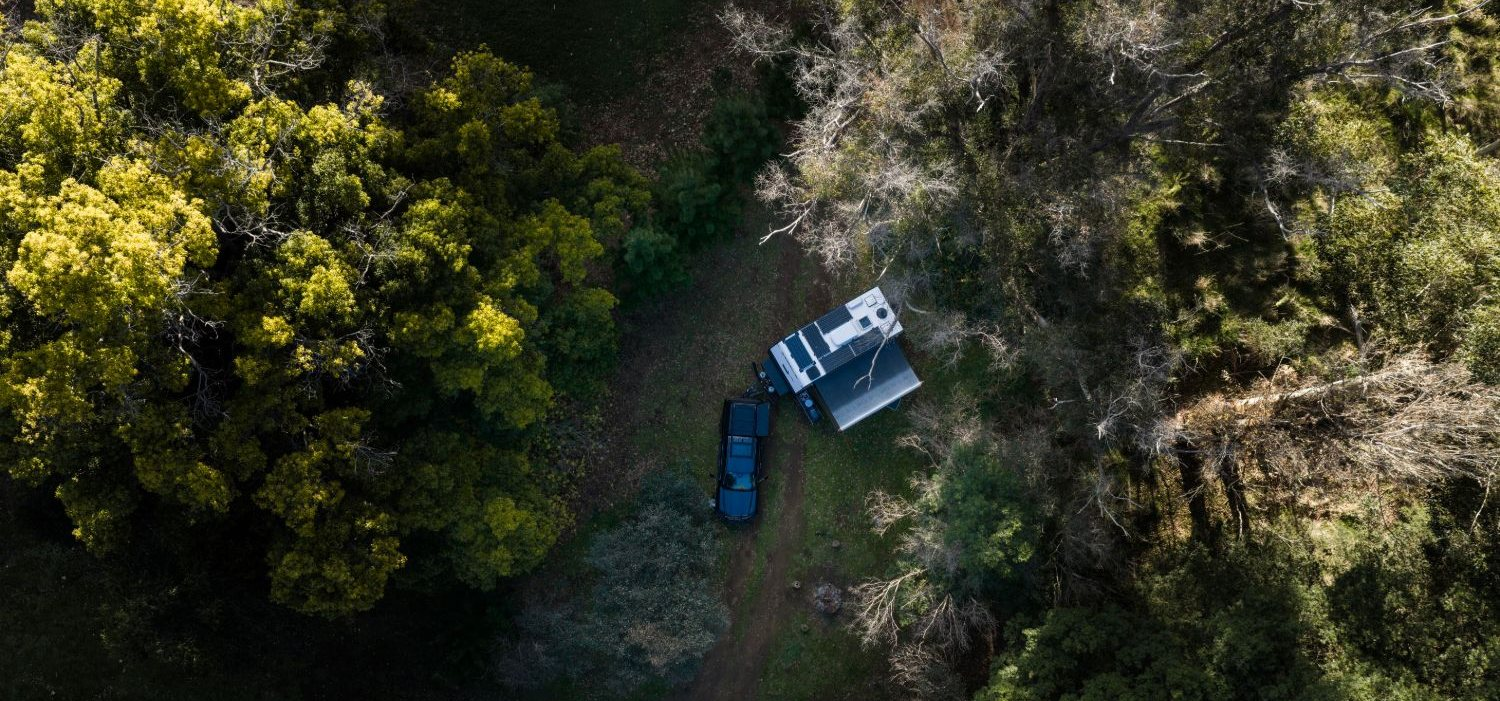
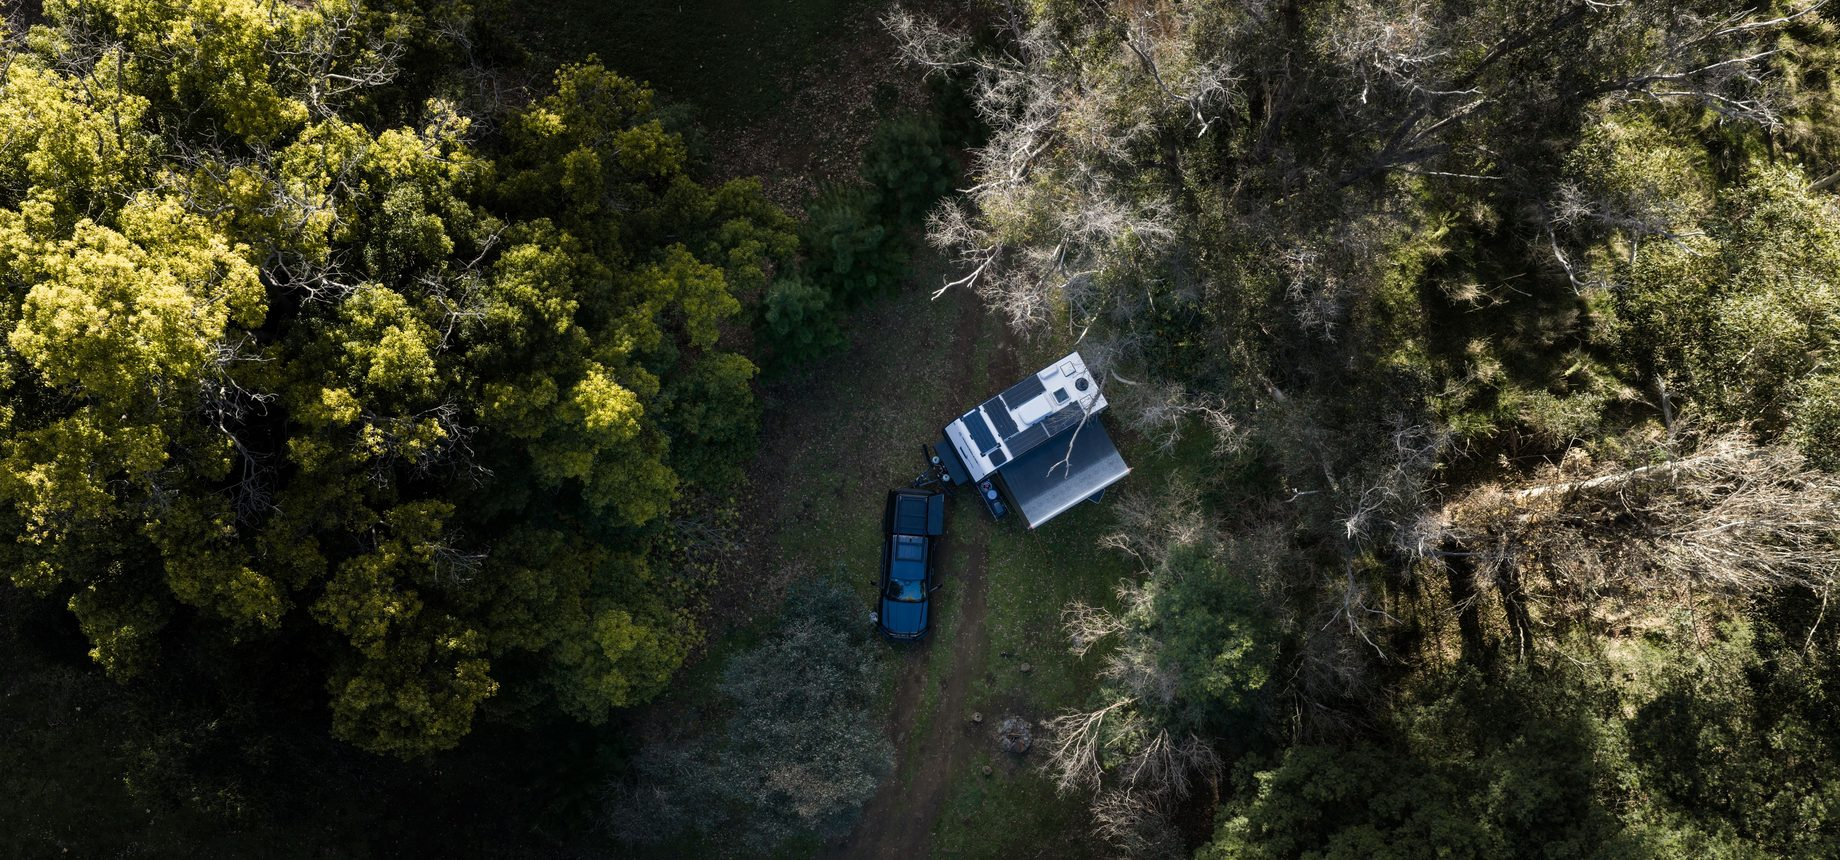
Home: drone band from the full-size original; tile follow-ups
- Drone band rebuilt from the original FV_1709_AMAROO_#2.jpg (5677x3784), same framing:
  desktop 1840x860, phone 1000x800 (no upscale; no plates readable from above).
- BUILT TO LAST: arrow off for now (where it links is still open).
- CUSTOM MADE links to the live /wonderland-experience/, like tiles 1 and 3.
- Desktop: CUSTOM MADE caption sits 46px in so its arrow clears the 48px side icon strip
  (checked 1280, 1440, 1920); grid width unchanged. home-dream.css?v=11.

diff --git a/home.html b/home.html
@@ -525,9 +525,9 @@
 
 <!-- ================================================ PHOTO BAND (Piyush, 25 Nov 2026): his top-down drone shot of the van
      and ute in a bush clearing, full bleed, no text. Desktop a wide band, phones a shorter crop centred on the van
-     (assets/css/home-dream.css). Built from his 1500x1000 copy; swap for the full-size original when it turns up. -->
+     (assets/css/home-dream.css). Crops from the full-size original, FV_1709_AMAROO_#2.jpg (5677x3784). -->
 <section class="band band--sep">
-  <picture><source media="(max-width: 900px)" srcset="assets/img/home/sep-drone-phone.jpg?v=1"><img src="assets/img/home/sep-drone-desk.jpg?v=1" width="1500" height="701" alt="A Wonderland RV caravan and ute parked in a bush clearing, seen from above" loading="lazy" decoding="async"></picture>
+  <picture><source media="(max-width: 900px)" srcset="assets/img/home/sep-drone-phone.jpg?v=2"><img src="assets/img/home/sep-drone-desk.jpg?v=2" width="1840" height="860" alt="A Wonderland RV caravan and ute parked in a bush clearing, seen from above" loading="lazy" decoding="async"></picture>
 </section>
 
 <!-- ================================================ YOUR DREAM VAN -->
@@ -540,11 +540,11 @@
     <div class="dz-grid" data-dz data-open="0">
       <a class="vp t1" href="https://wonderlandrv.com.au/layout/family-off-road-caravans/" style="--fx:35%;--fy:50%"><picture><source media="(max-width: 900px)" srcset="assets/img/home/dream-family-xtr-phone.jpg?v=1"><img src="assets/img/home/dream-family-xtr-desk.jpg?v=1" alt="" loading="lazy"></picture><div class="vc"><h3>FAMILY <span class="nw">OFF-ROAD</span> CARAVANS</h3><p>150+ bunk layouts to choose from</p><svg class="vc-arrow" viewBox="0 0 24 24" fill="none" stroke="currentColor" stroke-width="2.4" aria-hidden="true"><path d="M5 19L19 5M8 5h11v11"/></svg></div></a>
       <div class="dz-col">
-        <div class="vp t2" tabindex="0" style="--fx:62%;--fy:50%"><img src="assets/img/home/why2-chassis.jpg" alt="" loading="lazy"><div class="vc"><h3>BUILT TO LAST</h3><p>Australian made with superior strength and flex</p><svg class="vc-arrow" viewBox="0 0 24 24" fill="none" stroke="currentColor" stroke-width="2.4" aria-hidden="true"><path d="M5 19L19 5M8 5h11v11"/></svg></div></div>
+        <div class="vp t2" tabindex="0" style="--fx:62%;--fy:50%"><img src="assets/img/home/why2-chassis.jpg" alt="" loading="lazy"><div class="vc"><h3>BUILT TO LAST</h3><p>Australian made with superior strength and flex</p></div></div>
         <a class="vp t3" href="https://wonderlandrv.com.au/layout/couples-caravans/" style="--fx:50%;--fy:50%"><picture><source media="(max-width: 900px)" srcset="assets/img/home/dream-couples-phone.jpg?v=1"><img src="assets/img/home/dream-couples-desk.jpg?v=1" alt="" loading="lazy"></picture><div class="vc"><h3>MADE FOR COUPLES</h3><p>25+ couples off-road layouts to choose from</p><svg class="vc-arrow" viewBox="0 0 24 24" fill="none" stroke="currentColor" stroke-width="2.4" aria-hidden="true"><path d="M5 19L19 5M8 5h11v11"/></svg></div></a>
       </div>
       <div class="dz-col">
-        <a class="vp t4" href="wonderland-experience.html" style="--fx:70%;--fy:60%"><img src="assets/img/home/why2-factory.jpg" alt="" loading="lazy"><div class="vc"><h3>CUSTOM MADE</h3><p>Built for your family by ours</p><svg class="vc-arrow" viewBox="0 0 24 24" fill="none" stroke="currentColor" stroke-width="2.4" aria-hidden="true"><path d="M5 19L19 5M8 5h11v11"/></svg></div></a>
+        <a class="vp t4" href="https://wonderlandrv.com.au/wonderland-experience/" style="--fx:70%;--fy:60%"><img src="assets/img/home/why2-factory.jpg" alt="" loading="lazy"><div class="vc"><h3>CUSTOM MADE</h3><p>Built for your family by ours</p><svg class="vc-arrow" viewBox="0 0 24 24" fill="none" stroke="currentColor" stroke-width="2.4" aria-hidden="true"><path d="M5 19L19 5M8 5h11v11"/></svg></div></a>
         <a class="dz-quote" href="compact.html"><b>Get<br>a<br>quote</b><svg viewBox="0 0 24 24" fill="none" stroke="currentColor" stroke-width="2.4" aria-hidden="true"><path d="M5 19L19 5M8 5h11v11"/></svg></a>
       </div>
     </div>

diff --git a/assets/css/home-dream.css b/assets/css/home-dream.css
@@ -104,3 +104,8 @@
   .dz .vc .vc-arrow { display: inline-block; width: 14px; height: 14px; margin-left: 6px; vertical-align: -1px; transition: transform .3s ease; }
   .dz .vp:active .vc-arrow { transform: translate(2px, -2px) scale(1.3); }
 }
+
+/* Desktop: the site's side icon strip (nav.wlqb) shows 48px at the right edge of every desktop window and the right-hand tiles
+   run under it by up to 33px. The CUSTOM MADE caption (and its arrow) sits 46px in from the tile's edge so it always clears
+   the strip, with a gap. The grid itself keeps its width. */
+@media (min-width: 901px) { .dz .t4 .vc { right: 46px; } }
